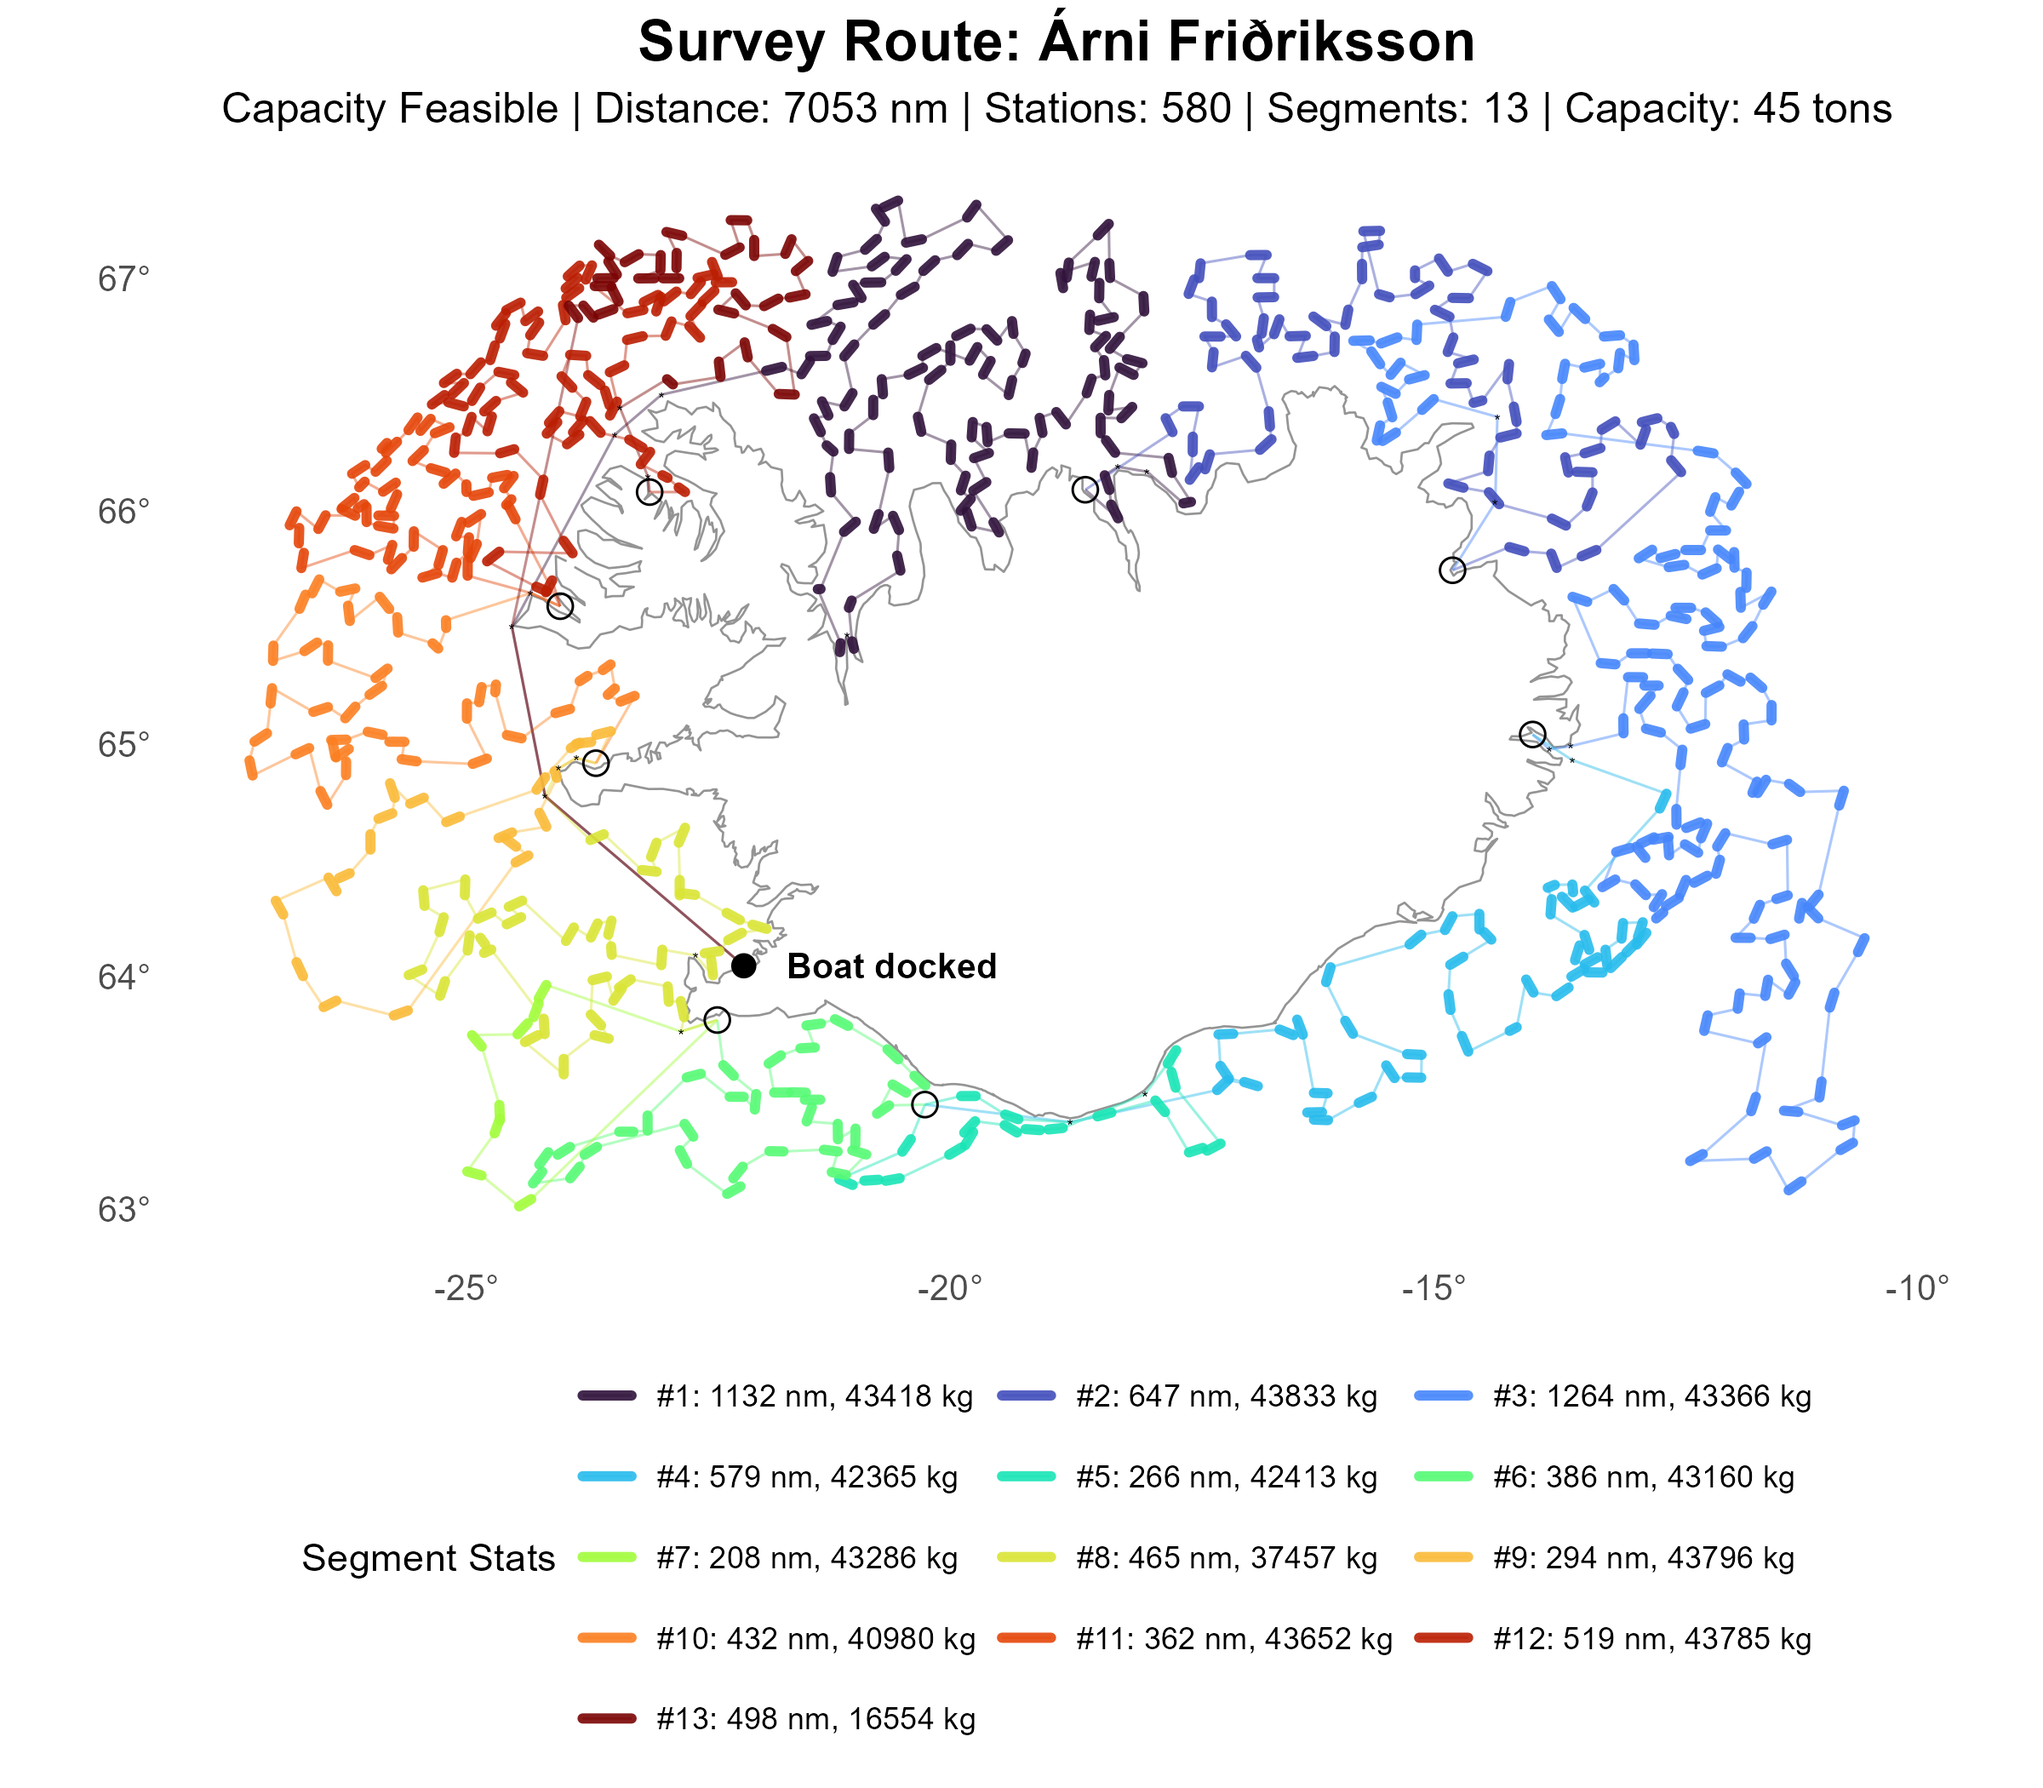
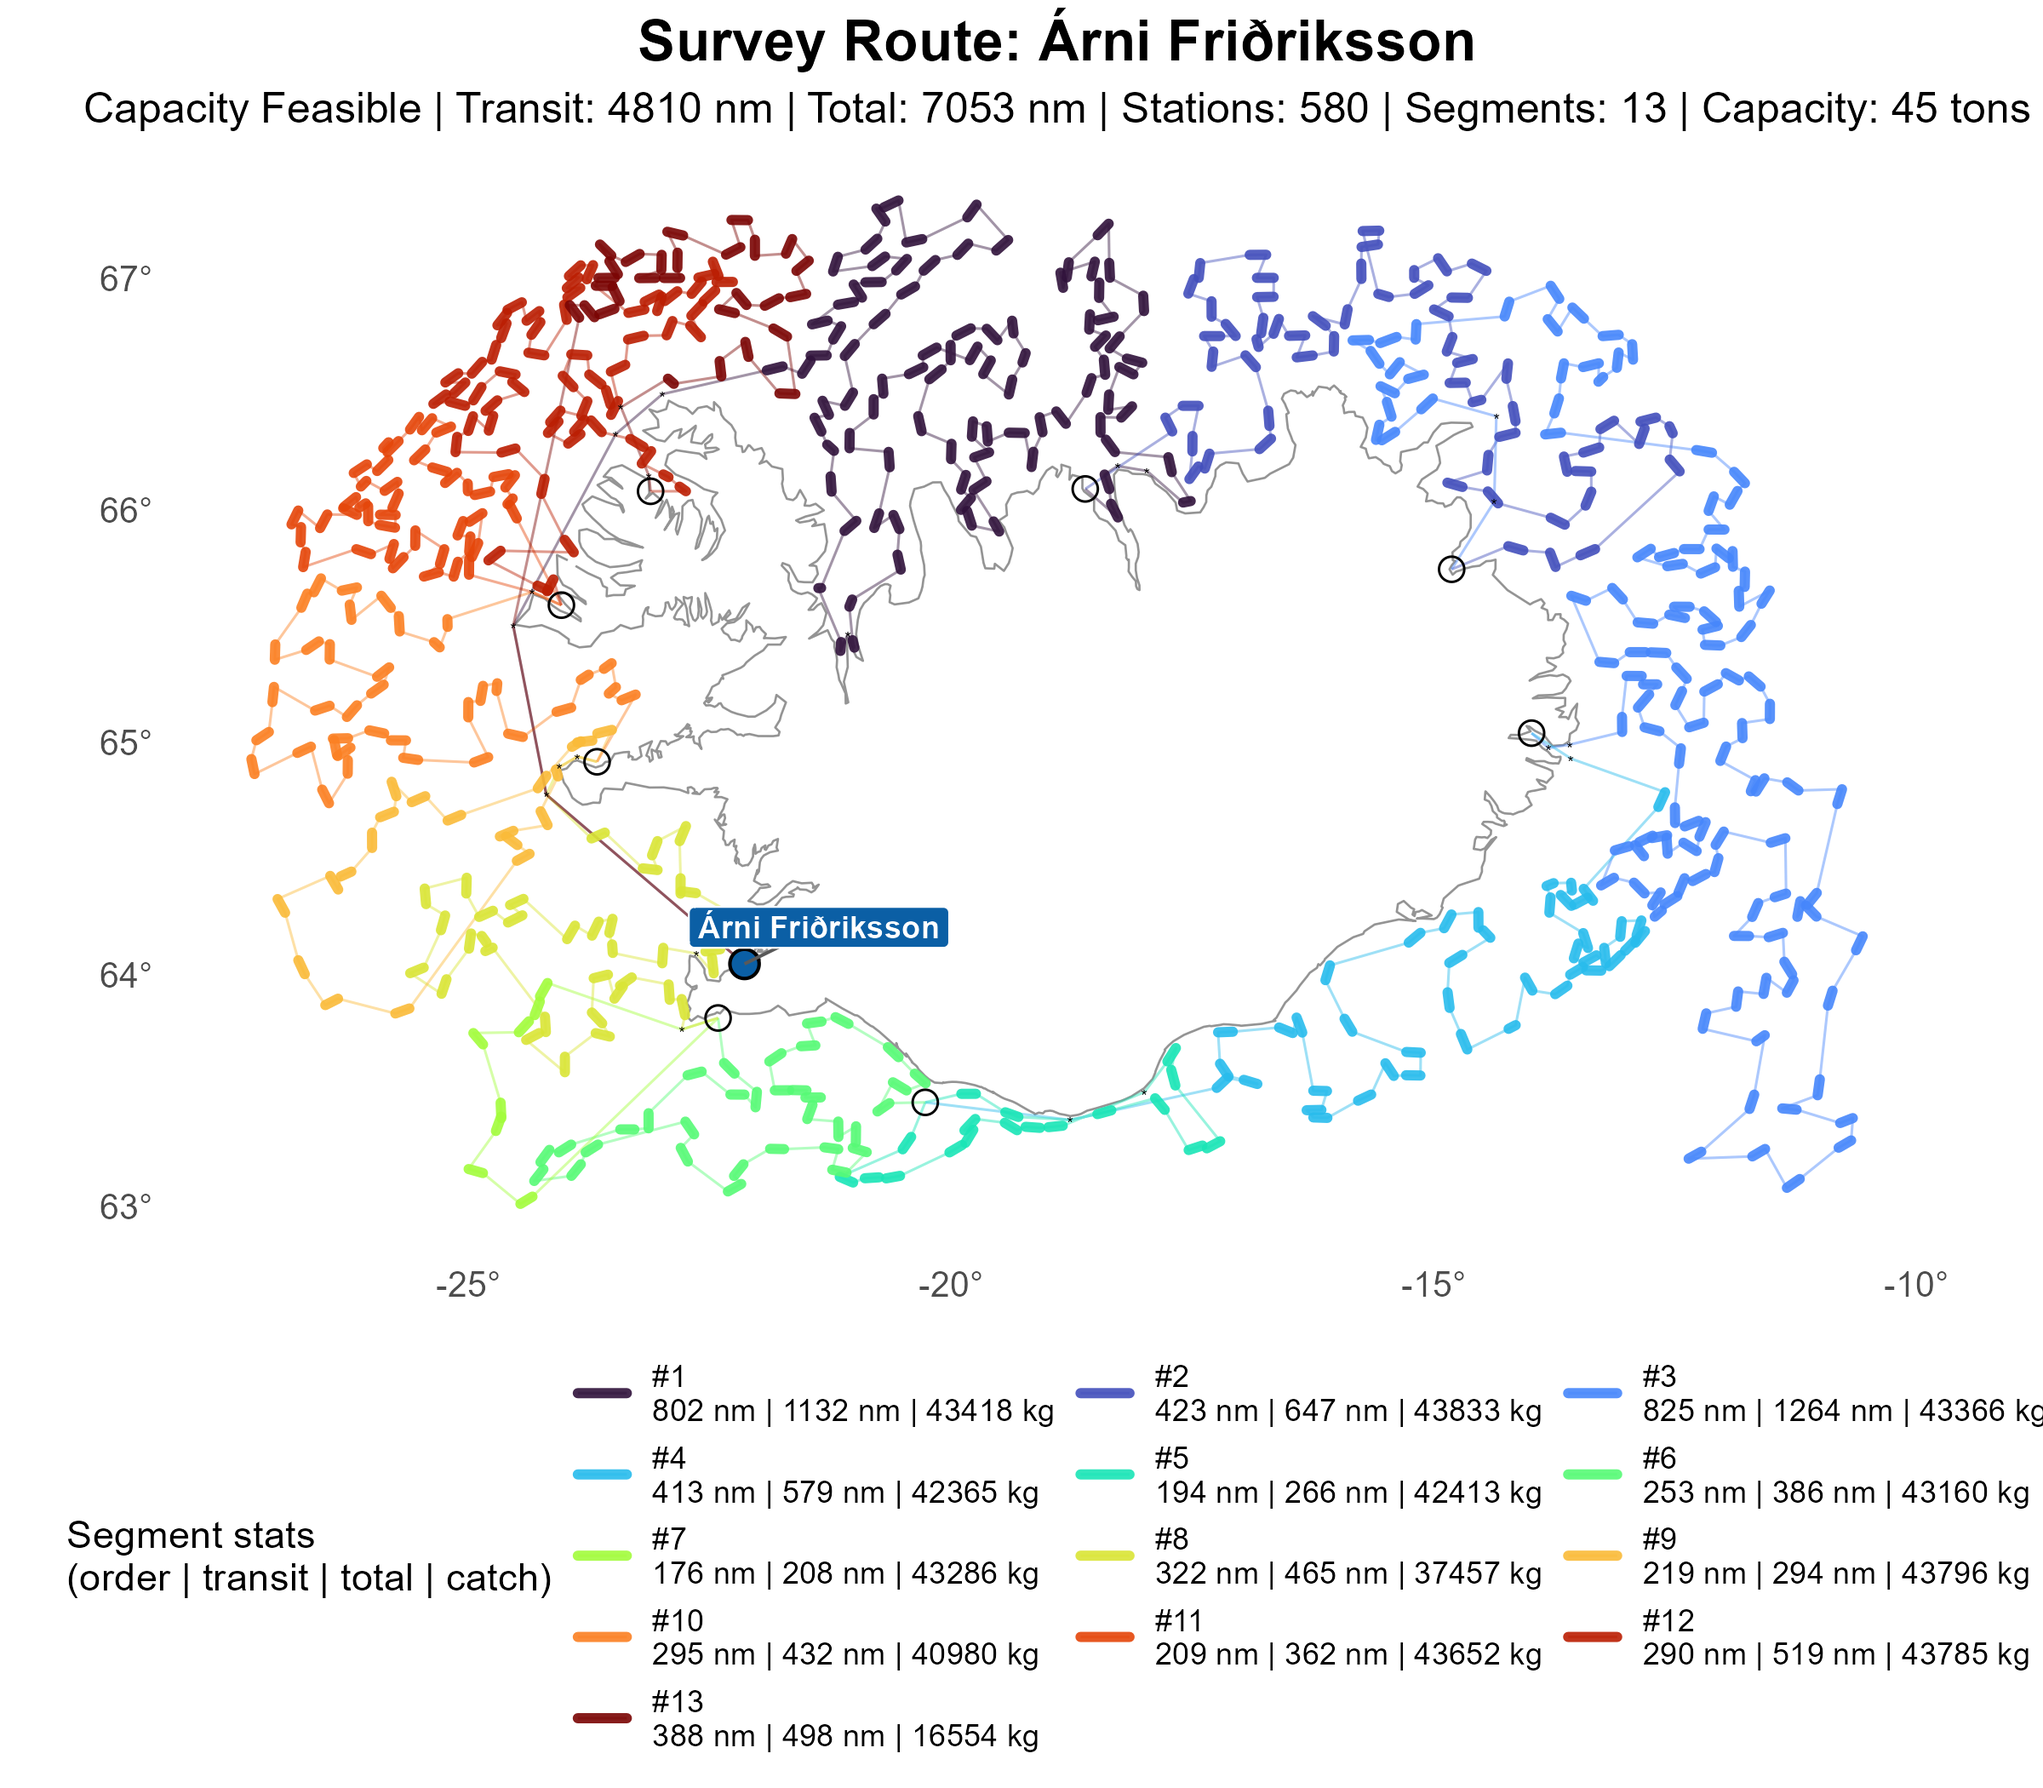
Refactor distance reporting in JSON output to include transit and haul breakdowns, update README with new distance table format

diff --git a/sol/ge/README.md b/sol/ge/README.md
@@ -25,22 +25,22 @@ particularly in regions where many similar‑length edges compete.
 
 ### Initialization (capacity feasible)
 
-|   Segment |   Length | Stations |      Catch | Distance (nm) |
-|----------:|---------:|---------:|-----------:|--------------:|
-|         1 |      175 |       87 |      43418 |       1132.15 |
-|         2 |      117 |       58 |      43833 |        646.73 |
-|         3 |      223 |      111 |      43366 |       1263.98 |
-|         4 |       87 |       43 |      42365 |        579.40 |
-|         5 |       37 |       18 |      42413 |        266.43 |
-|         6 |       67 |       33 |      43160 |        385.89 |
-|         7 |       17 |        8 |      43286 |        208.05 |
-|         8 |       75 |       37 |      37457 |        465.25 |
-|         9 |       41 |       20 |      43796 |        294.15 |
-|        10 |       75 |       37 |      40980 |        431.74 |
-|        11 |       83 |       41 |      43652 |        362.45 |
-|        12 |      119 |       59 |      43785 |        518.68 |
-|        13 |       56 |       28 |      16554 |        497.83 |
-| **Total** | **1172** |  **580** | **528065** |   **7052.74** |
+|   Segment |   Length | Stations |      Catch | Transit (nm) | Distance (nm) |
+|----------:|---------:|---------:|-----------:|-------------:|--------------:|
+|         1 |      175 |       87 |      43418 |       802.03 |       1132.15 |
+|         2 |      117 |       58 |      43833 |       423.08 |        646.73 |
+|         3 |      223 |      111 |      43366 |       824.98 |       1263.98 |
+|         4 |       87 |       43 |      42365 |       413.03 |        579.40 |
+|         5 |       37 |       18 |      42413 |       193.50 |        266.43 |
+|         6 |       67 |       33 |      43160 |       252.92 |        385.89 |
+|         7 |       17 |        8 |      43286 |       176.18 |        208.05 |
+|         8 |       75 |       37 |      37457 |       321.91 |        465.25 |
+|         9 |       41 |       20 |      43796 |       219.13 |        294.15 |
+|        10 |       75 |       37 |      40980 |       295.42 |        431.74 |
+|        11 |       83 |       41 |      43652 |       209.33 |        362.45 |
+|        12 |      119 |       59 |      43785 |       289.99 |        518.68 |
+|        13 |       56 |       28 |      16554 |       388.39 |        497.83 |
+| **Total** | **1172** |  **580** | **528065** |  **4809.89** |   **7052.74** |
 
 ### Sweep adjustment (capacity feasible)
 

diff --git a/sol/ci/README.md b/sol/ci/README.md
@@ -27,22 +27,22 @@ default initialization for downstream refinement.
 
 ### Initialization (capacity feasible)
 
-|   Segment |   Length | Stations |      Catch | Distance (nm) |
-|----------:|---------:|---------:|-----------:|--------------:|
-|         1 |       71 |       35 |      43347 |        441.72 |
-|         2 |      127 |       63 |      43548 |        702.21 |
-|         3 |      177 |       88 |      43825 |       1131.01 |
-|         4 |       65 |       32 |      38138 |        456.85 |
-|         5 |       97 |       48 |      42925 |        622.00 |
-|         6 |      169 |       84 |      43299 |        945.44 |
-|         7 |      159 |       79 |      43889 |        751.38 |
-|         8 |       97 |       48 |      43418 |        629.97 |
-|         9 |        9 |        4 |      41179 |        230.12 |
-|        10 |       47 |       23 |      43412 |        330.45 |
-|        11 |       47 |       23 |      43774 |        290.44 |
-|        12 |       85 |       42 |      43750 |        508.61 |
-|        13 |       22 |       11 |      13561 |        249.64 |
-| **Total** | **1172** |  **580** | **528065** |   **7289.85** |
+|   Segment |   Length | Stations |      Catch | Transit (nm) | Distance (nm) |
+|----------:|---------:|---------:|-----------:|-------------:|--------------:|
+|         1 |       71 |       35 |      43347 |       311.30 |        441.72 |
+|         2 |      127 |       63 |      43548 |       465.39 |        702.21 |
+|         3 |      177 |       88 |      43825 |       786.74 |       1131.01 |
+|         4 |       65 |       32 |      38138 |       333.76 |        456.85 |
+|         5 |       97 |       48 |      42925 |       431.18 |        622.00 |
+|         6 |      169 |       84 |      43299 |       618.83 |        945.44 |
+|         7 |      159 |       79 |      43889 |       442.77 |        751.38 |
+|         8 |       97 |       48 |      43418 |       454.66 |        629.97 |
+|         9 |        9 |        4 |      41179 |       214.21 |        230.12 |
+|        10 |       47 |       23 |      43412 |       238.05 |        330.45 |
+|        11 |       47 |       23 |      43774 |       197.49 |        290.44 |
+|        12 |       85 |       42 |      43750 |       345.83 |        508.61 |
+|        13 |       22 |       11 |      13561 |       206.79 |        249.64 |
+| **Total** | **1172** |  **580** | **528065** |  **5047.00** |   **7289.85** |
 
 ### Sweep adjustment (capacity feasible)
 

diff --git a/sol/nn/README.md b/sol/nn/README.md
@@ -35,22 +35,22 @@ make -C src init_nn
 
 ### Initialization (capacity feasible)
 
-|   Segment |   Length | Stations |      Catch | Distance (nm) |
-|----------:|---------:|---------:|-----------:|--------------:|
-|         1 |       97 |       48 |      43996 |        522.48 |
-|         2 |      123 |       61 |      43989 |        572.59 |
-|         3 |      165 |       82 |      43992 |        923.12 |
-|         4 |      219 |      109 |      43998 |       1101.59 |
-|         5 |       81 |       40 |      43989 |        679.37 |
-|         6 |       77 |       38 |      44000 |        975.95 |
-|         7 |      103 |       51 |      43988 |        566.19 |
-|         8 |       73 |       36 |      43965 |        440.49 |
-|         9 |       81 |       40 |      43958 |        822.84 |
-|        10 |       95 |       47 |      43654 |        909.27 |
-|        11 |       49 |       24 |      43466 |        518.03 |
-|        12 |        7 |        3 |      37074 |        295.48 |
-|        13 |        2 |        1 |       7996 |        180.02 |
-| **Total** | **1172** |  **580** | **528065** |   **8507.42** |
+|   Segment |   Length | Stations |      Catch | Transit (nm) | Distance (nm) |
+|----------:|---------:|---------:|-----------:|-------------:|--------------:|
+|         1 |       97 |       48 |      43996 |       348.46 |        522.48 |
+|         2 |      123 |       61 |      43989 |       335.94 |        572.59 |
+|         3 |      165 |       82 |      43992 |       609.21 |        923.12 |
+|         4 |      219 |      109 |      43998 |       676.95 |       1101.59 |
+|         5 |       81 |       40 |      43989 |       520.65 |        679.37 |
+|         6 |       77 |       38 |      44000 |       824.61 |        975.95 |
+|         7 |      103 |       51 |      43988 |       371.53 |        566.19 |
+|         8 |       73 |       36 |      43965 |       303.81 |        440.49 |
+|         9 |       81 |       40 |      43958 |       663.88 |        822.84 |
+|        10 |       95 |       47 |      43654 |       728.37 |        909.27 |
+|        11 |       49 |       24 |      43466 |       421.81 |        518.03 |
+|        12 |        7 |        3 |      37074 |       283.48 |        295.48 |
+|        13 |        2 |        1 |       7996 |       175.86 |        180.02 |
+| **Total** | **1172** |  **580** | **528065** |  **6264.57** |   **8507.42** |
 
 ### Sweep adjustment (capacity feasible)
 
